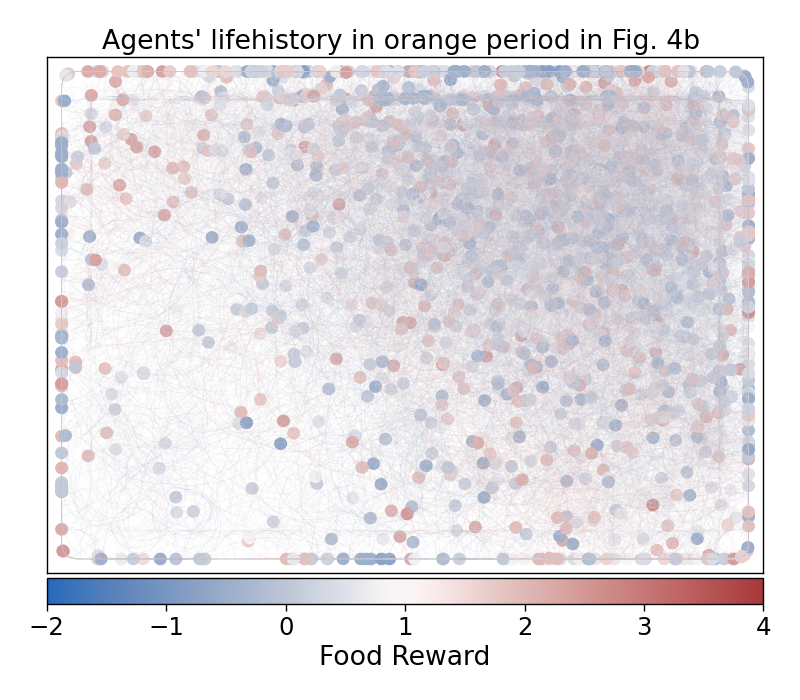
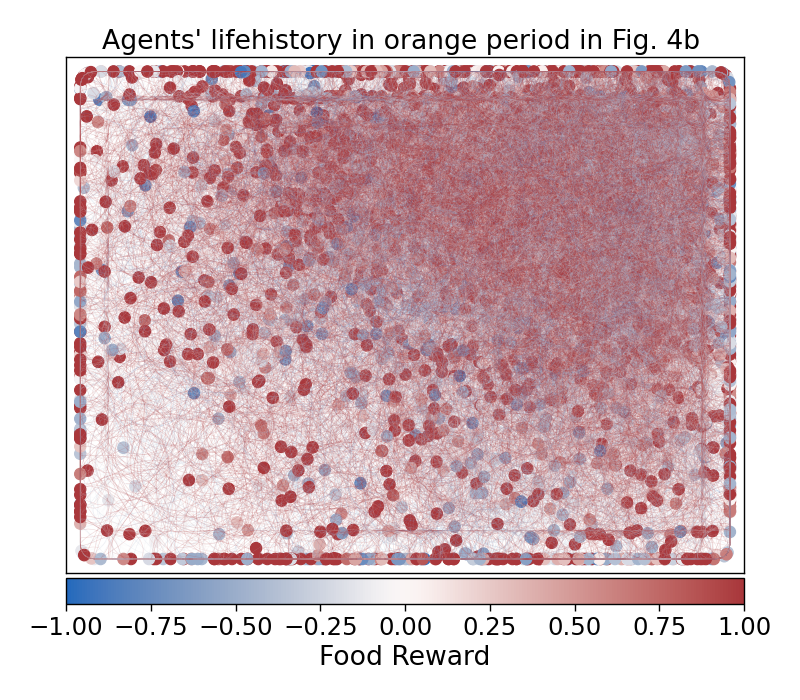
figures

diff --git a/src/body.tex b/src/body.tex
@@ -213,40 +213,50 @@ We show the pseudocode of our entire simulation procedure in \cref{alg:reward-ev
 \section{Results}
 
 \begin{figure}[t]
-  \begin{subfigure}[t]{7.5cm}
+  \begin{subfigure}[t]{5cm}
     \centering
-    \includegraphics[width=7.5cm]{baseline.png}
-    \subcaption{Evolved rewards in the baseline environment.}\label{subfigure:bl}
+    \includegraphics[width=5cm]{baseline.png}
+    \subcaption{Evolved rewards.}\label{subfigure:bl}
   \end{subfigure}
-  \begin{subfigure}[t]{7.5cm}
+  \begin{subfigure}[t]{5cm}
     \centering
-    \includegraphics[width=7.5cm]{seed5-frdecay.png}
-    \subcaption{A case study for decreasing food reward.}\label{subfigure:s5cs}
+    \includegraphics[width=5cm]{seed5-frdecay.png}
+    \subcaption{Decreasing food reward.}\label{subfigure:s5}
+  \end{subfigure}
+  \begin{subfigure}[t]{5cm}
+    \centering
+    \includegraphics[width=5cm]{seed2-frstable.png}
+    \subcaption{Stable food reward.}\label{subfigure:s2}
   \end{subfigure}
   \caption{
-    In the left figure, the X-axis shows the birth time of each agent, and the y-axis shows the value of rewards for food, agent, wall, and action from top to bottom. The difference in colors and shapes of dots corresponds to the difference in the random seed. The right figure colarized the reward weights per food reward in case the food reward decreases. We selected the run with seed $5$ from \num{4e6} to \num{9e6} steps for this purpose.
+    In the left figure, the X-axis shows the birth time of each agent, and the y-axis shows the value of rewards for food, agent, wall, and action from top to bottom. The difference in colors and shapes of dots corresponds to the difference in the random seed. In the center and right figures, reward weights are colorized per food reward weight. The center figure shows the case where food reward decreases (seed $5$), and the right figure shows one with stable food reward,  from \num{4e6} to \num{9e6} steps.
   }\label{figure:baseline-result}
 \end{figure}
 
-As a baseline environment, we use the setting where food is always regenerated in the upper right of the room, as the left figure in \Cref{figure:env} shows. In this environment, we tuned environmental parameters (e.g., maximum number of foods and growth rate) to stabilize the population around $100$. We show all environmental parameters in \cref{ap:param}. All experiments start with $50$ agents that have energy level $40.0$ and randomly initialized reward weights. We conducted \num{1e7} step of the simulation, resulting in 10 \todo{actual number} generations, which takes $14\sim16$ hours on NVIDIA P100 GPUs.
+As a baseline environment, we use the setting where food is always regenerated in the upper right of the room, as the left figure in \Cref{figure:env} shows. In this environment, we tuned environmental parameters (e.g., maximum number of foods and growth rate) to stabilize the population around $100$. We show all environmental parameters in \cref{ap:param}. All experiments start with $50$ agents that have energy level $40.0$ and randomly initialized reward weights. We conducted \num{1e7} step of the simulation, resulting from $300$ to $400$ generations, which takes $14\sim16$ hours on NVIDIA P100 GPUs.
 
 \Cref{subfigure:bl} shows the evolved reward weights with 5 random seeds in the baseline environment. Surprisingly, the food reward weight is only stable positive for one random seed. It unstably goes up and down or stays negative in one random seed. On the contrary, reward weights for colliding with walls and other agents are stably negative, which is reasonable because sticking around walls is not good for foraging, and sticking to other agents might reduce the chance of making a child. The reward weight for action tends to be positive. This contradicts our expectations that it would evolve to negative like fatigue.
+
+To investigate the reason why the evolution of food reward can be unstable, we closely look at our simulation run with seed $5$, where food reward decreases. \Cref{subfigure:s5cs} shows the scatter plot of reward weights in this run from \num{4e6} to \num{9e6} steps, where blue color indicates smaller food rewards and red color indicates larger. We can see a tendency that agents with lower food rewards tend to have higher wall and action rewards, which is reasonable because both sticking around walls and just moving can help foraging. On the contrary, we can see two different modes in agent and action rewards. In the medium of \cref{subfigure:s5} (between \num{6e6} and \num{7e6} steps), agents with smaller rewards tend to have smaller negative rewards for colliding with agent, while they tend to have larger agent rewards later. On the contrary, in the case where the food reward remains stable (seed $2$), the magnitude of other collision rewards (agent and wall) is relatively small, and they don't look have large effect. The reward for action increases over the course of evolution, which might help foraging with food rewards.
 
 \begin{figure}[t]
   \begin{subfigure}[t]{7cm}
     \centering
     \includegraphics[width=7cm]{seed5-lh-orange.png}
+    \subcaption{A case study for decreasing food reward.}\label{subfigure:s5lh}
   \end{subfigure}
   \begin{subfigure}[t]{7cm}
     \centering
-    \includegraphics[width=7cm]{seed5-lh-green.png}
+    \includegraphics[width=7cm]{seed2-lh-orange.png}
+    \subcaption{A case study for decreasing food reward.}\label{subfigure:s2lh}
   \end{subfigure}
   \caption{
-    Agent's life history corresponding to \cref{subfigure:s5cs}. The left figure corresponds to the period filled with orange and \texttt{/}, and the right figure corresponds to the period filled with green and \texttt{\textbackslash}. Lines show trajectories of agents, colored by their food reward weight. Dots show places where agents made a child.
+    Agent's life history. The left figure corresponds to the period filled with orange in \cref{subfigure:s5}, and the right figure corresponds to the period filled with orange in \cref{subfigure:s2}. Lines show trajectories of agents, and dots show places where agents made a child. Colors correspond to negative and positive food rewards.
   }\label{figure:s5-lh}
 \end{figure}
 
-To investigate the reason why the evolution of food reward can be unstable, we closely look at our simulation run with seed $5$, where food reward decreases. \Cref{subfigure:s5cs} shows the scatter plot of reward weights in this run from \num{4e6} to \num{9e6} steps, where blue color indicates smaller food rewards and red color indicates larger. We can see a tendency that agents with lower food rewards tend to have higher wall and action rewards, which is reasonable because both sticking around walls and just moving can help foraging. On the contrary, we can see two different modes in agent and action rewards. In the medium of \cref{subfigure:s5cs} (between \num{6e6} and \num{7e6} steps), agents with smaller rewards tend to have smaller negative rewards for colliding with agent, while they tend to have larger agent rewards later. To investigate the reason why food reward decreases more, we focus on the period we filled orange and green in the first row of \cref{subfigure:s5cs}, where both negative and positive food rewards coexist. We plot life history of agents in these period in \cref{figure:s5-lh}, where thin lines show the agents' trajectories, dots show places where agents got child, and different colors corresponds to the value of food rewards. In both figures, we can see that agents trajectories are concentrated around the food location, but places where agents got child are more distributed because of the environmental constraint that it's difficult to make a child in a crowded area. Here, we don't see significant differences in trajectory or birth location in either case. In the figure on the left, the locations where agents with high food rewards gave birth are often a bit distant from the top right corner of the figure where the food is located. We suspect that this is because the food location is too crowded, and this is the reason why large negative agent reward started to evolve in this situation. Keeping distance from another agents is beneficial to get more opportunity to get children. Interestingly, we can't see this tendency in the right figure, because overconcentration of populations is suppressed by agents with negative food rewards, although they still tend to gather around the food location thanks to the positive rewards for colliding with another agent.
+To investigate the difference in two cases, we focus on the period we filled orange in the first row of \cref{subfigure:s5} and \cref{subfigure:s2}, where both negative and positive food rewards coexist. We plot life history of agents in these period in \cref{figure:s5-lh}, where thin lines show the agents' trajectories, dots show places where agents got child, and different colors corresponds to the value of food rewards. In both figures, we can see that agents trajectories are concentrated around the food location, but places where agents got child are more distributed because of the environmental constraint that it's difficult to make a child in a crowded area.
+Alghouth we don't see significant differences in agents' trajectories, we can see a tendency that agents with negative food rewards are distributed more distant from the food rewards because of the smaller negative food reward in \cref{subfigure:s2lh}. On the contrary, we guess that relatively larger negative food rewards in \cref{subfigure:s5lh} are not very harmful, especially with stronger rewards for collision with agents and walls
 
 %   \textbf{Right:} Evolved rewards in multiple settings, including the baseline environment. Each line shows the reward weight averaged over all agents alive at that time. Different colors indicate different settings.
 
